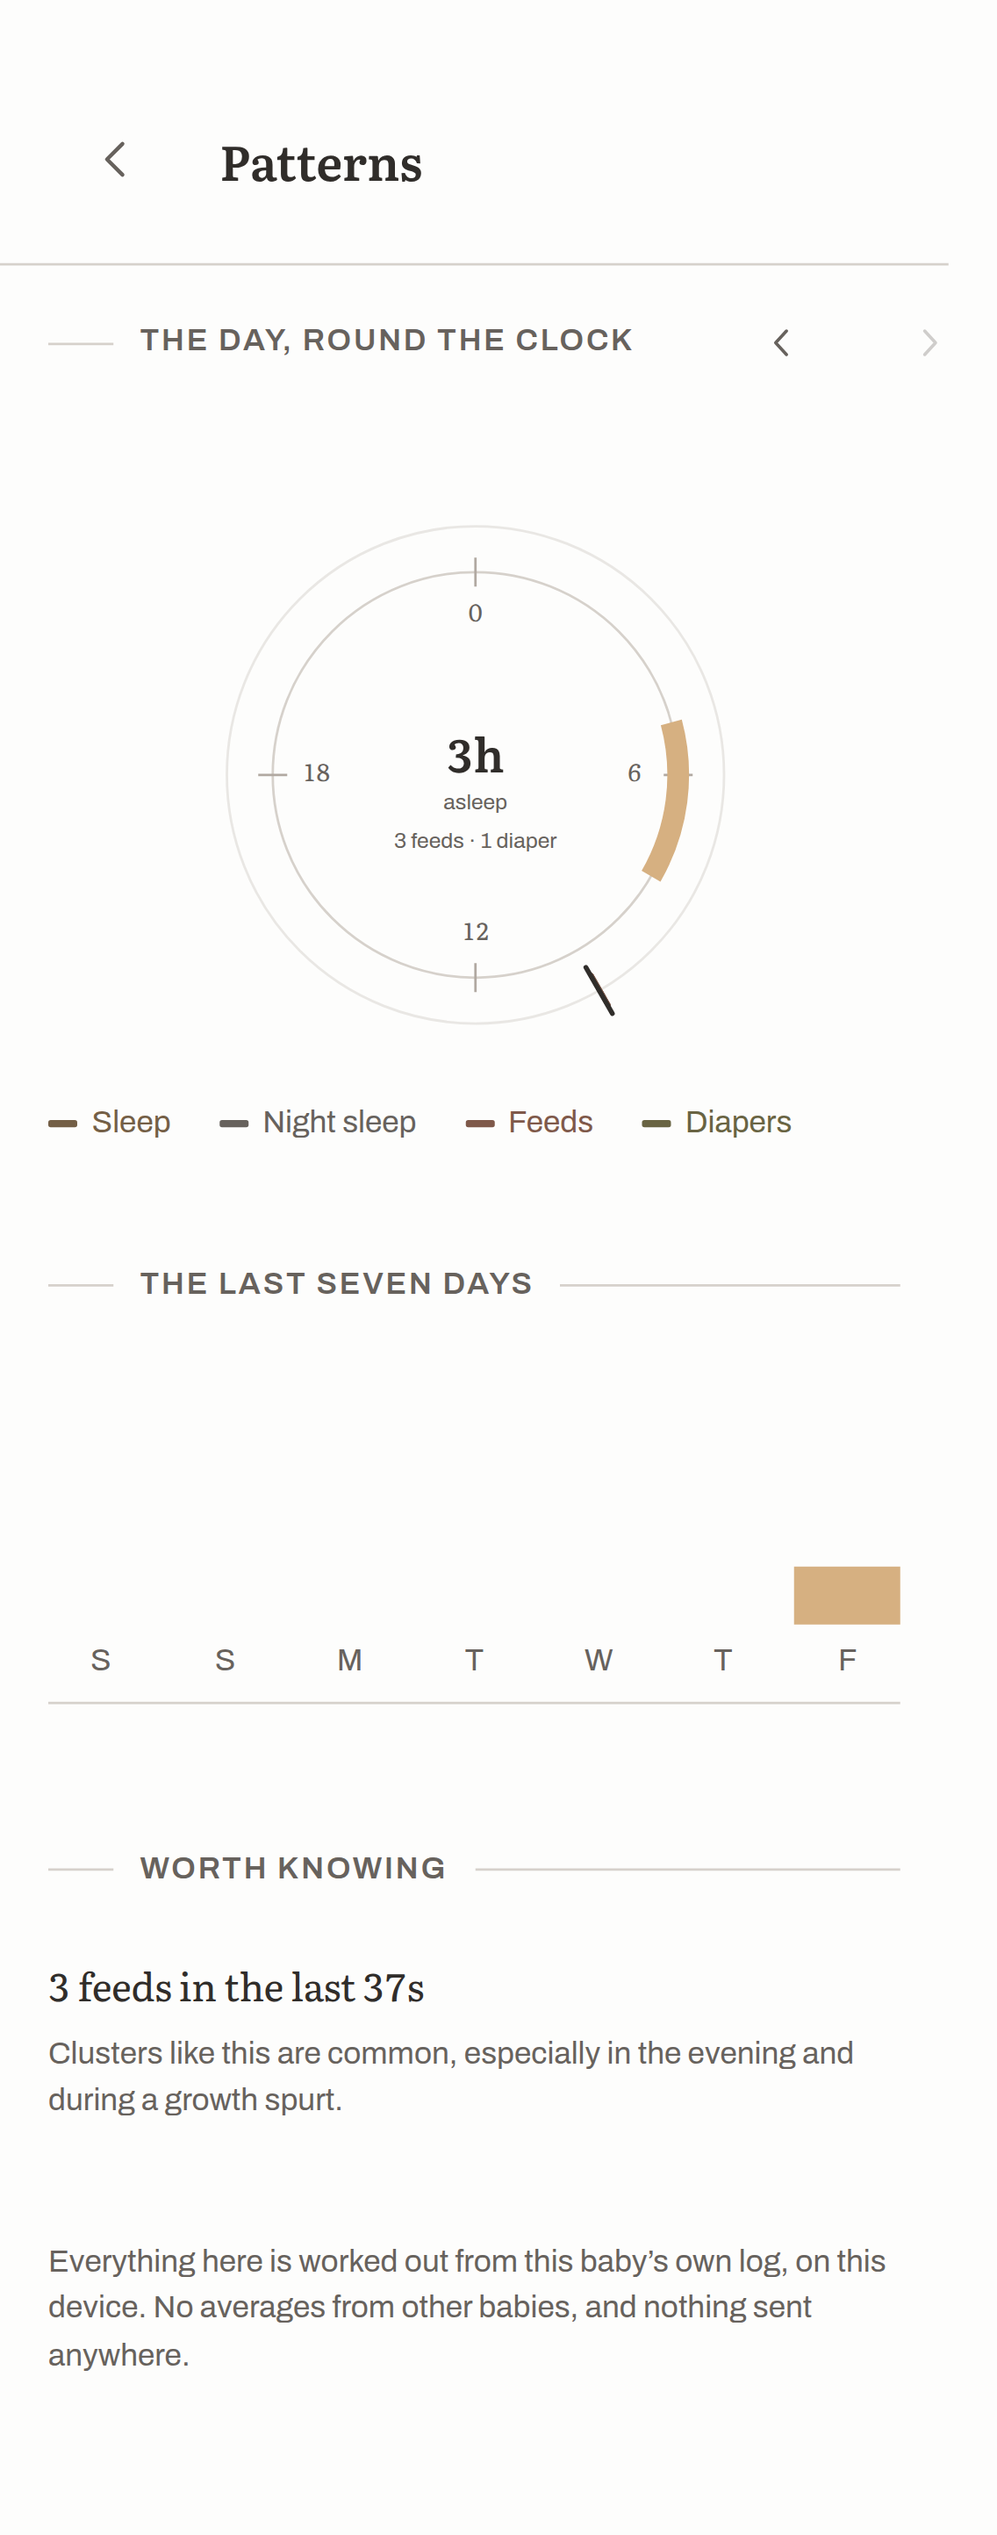
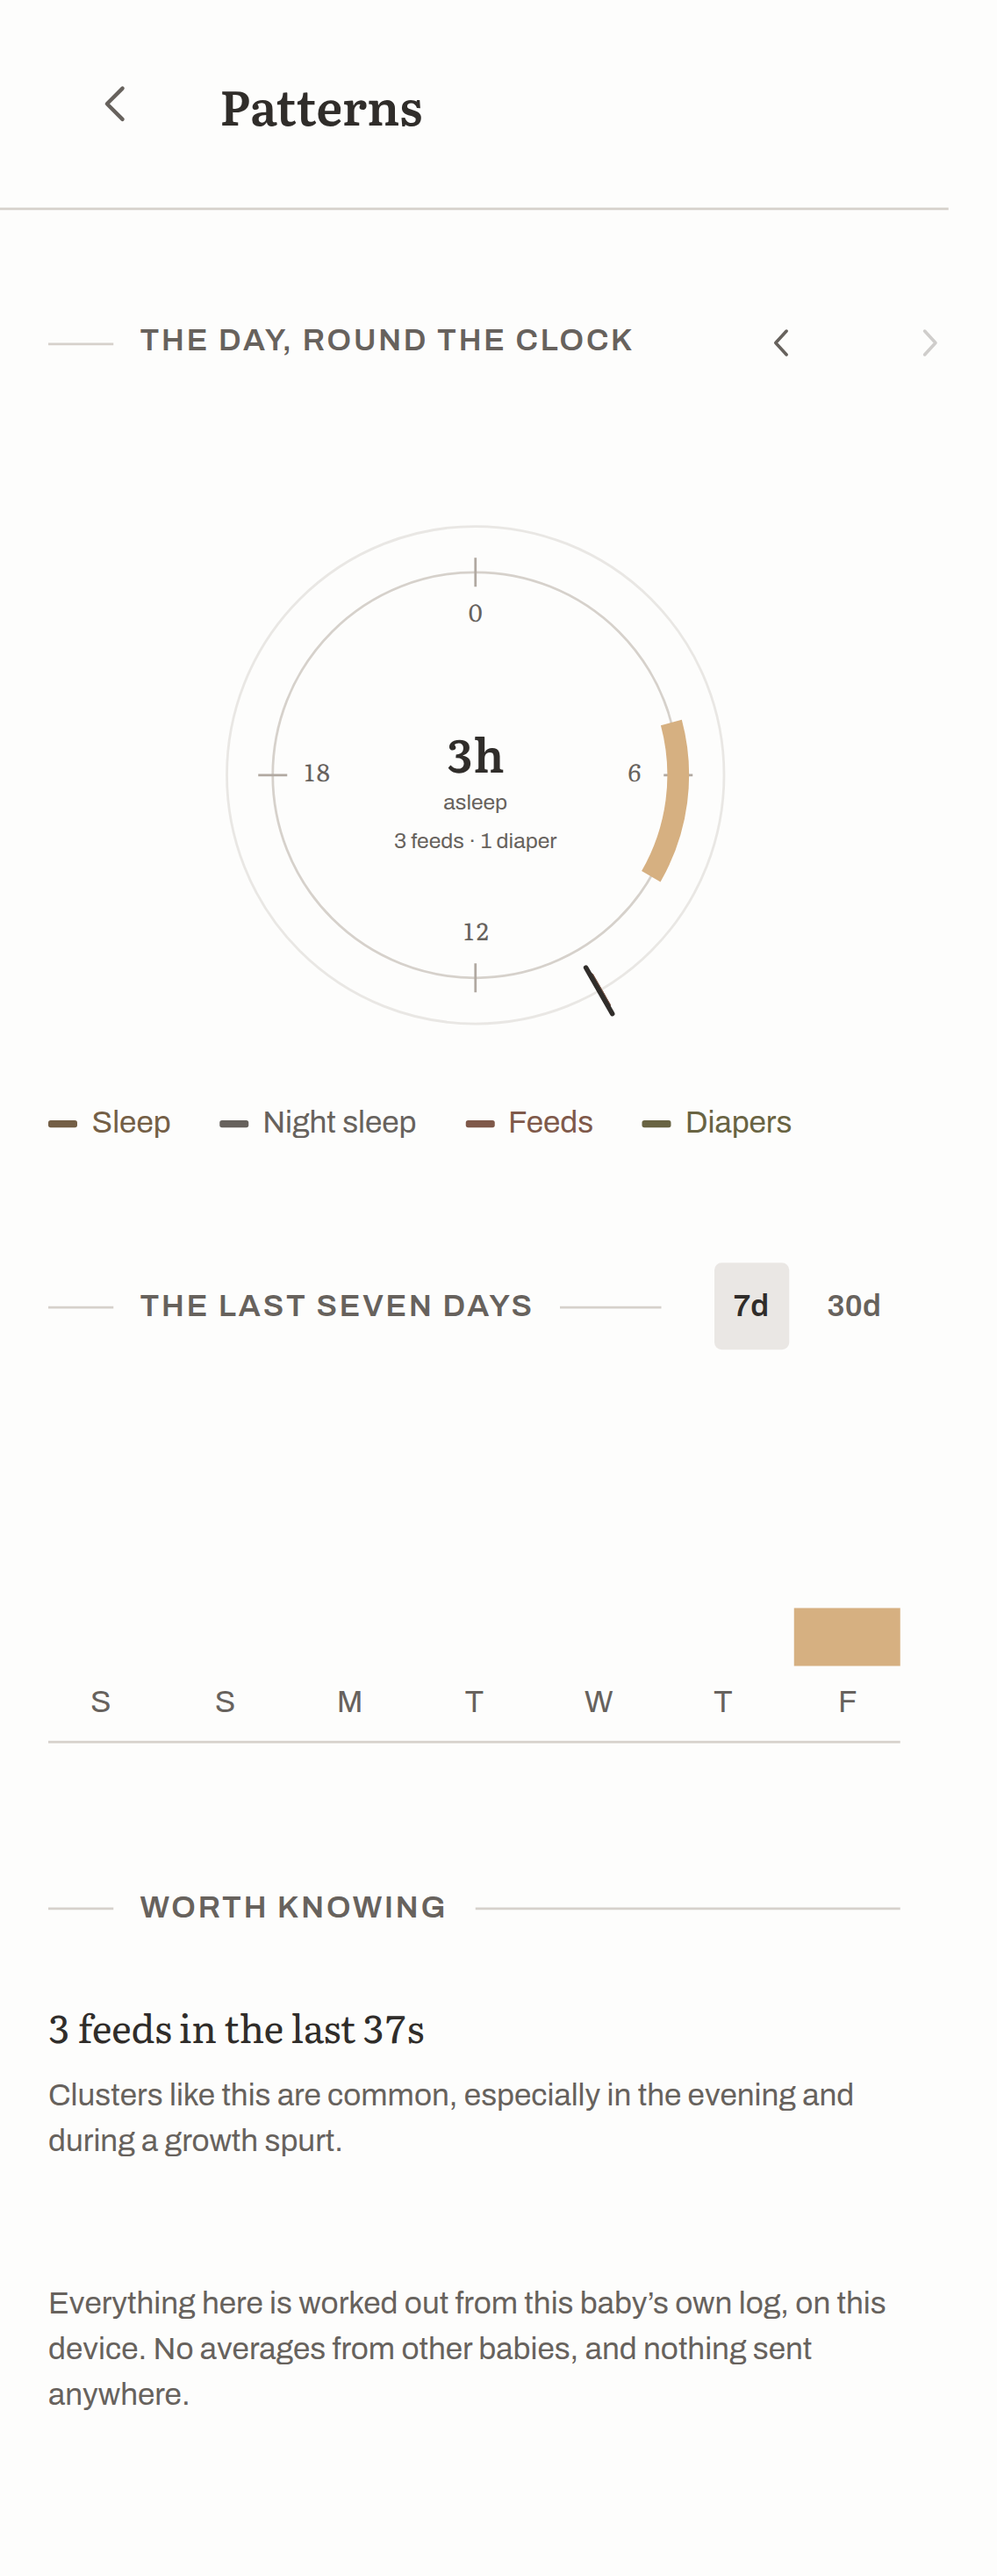
Add a thirty-day pattern chart, and say why the blocked items are blocked
The daily-sleep chart gains a thirty-day span, toggled from the section rule. A
week is too short to show a routine settling — or failing to; a month is where
that becomes visible. The weekday initials are dropped at that length because
thirty of them is a grey smear rather than an axis, and the chart's text
alternative now names the span so a screen-reader user hearing "daily sleep"
knows which window it covers.

The i18n drift test earned its keep here: it caught the Spanish label losing the
{days} placeholder, which would have silently dropped a number from the sentence
for Spanish readers only.

The rest of this commit is the roadmap telling the truth about what cannot ship
in this architecture, rather than leaving four items looking merely unstarted:

Voice logging is blocked. Chrome's Web Speech API sends audio to Google's servers
to be transcribed, which is precisely what this app promises not to do. It waits
for genuinely on-device recognition in a browser, or an offline model in the
Android shell — not a quiet exception to the one promise the project is built on.

The REST API, Home Assistant and MCP items all need a server, so they are
re-scoped as depending on the v0.3 sync server instead of sitting under v1.0 as
though they were nearly done.

The CDC milestone checklist is split from the keepsake milestone list and marked
as needing sourcing, under the same rule that governed the WHO growth tables:
[…]

diff --git a/src/ui/PatternsScreen.tsx b/src/ui/PatternsScreen.tsx
@@ -65,7 +65,10 @@ export function PatternsScreen({
     () => dayWheel(events, dayAnchor, now),
     [events, dayAnchor, now],
   );
-  const week = useMemo(() => dailyTotals(events, now), [events, now]);
+  // Seven days or thirty, from the same function. A month is where a routine
+  // settling — or failing to — becomes visible, and a week is too short to show it.
+  const [span, setSpan] = useState<7 | 30>(7);
+  const week = useMemo(() => dailyTotals(events, now, span), [events, now, span]);
   const trend = useMemo(() => nightSleepTrend(events, now), [events, now]);
   const cluster = useMemo(() => detectFeedCluster(events, now), [events, now]);
   const deviation = useMemo(() => detectDeviation(events, now), [events, now]);
@@ -179,7 +182,32 @@ export function PatternsScreen({
             </section>
 
             <section className="section">
-              <RuleLabel>{t.t("patterns.week")}</RuleLabel>
+              <RuleLabel
+                actions={
+                  <div
+                    className="span-toggle"
+                    role="group"
+                    aria-label={t.t("patterns.span")}
+                  >
+                    <button
+                      type="button"
+                      aria-pressed={span === 7}
+                      onClick={() => setSpan(7)}
+                    >
+                      {t.t("patterns.span7")}
+                    </button>
+                    <button
+                      type="button"
+                      aria-pressed={span === 30}
+                      onClick={() => setSpan(30)}
+                    >
+                      {t.t("patterns.span30")}
+                    </button>
+                  </div>
+                }
+              >
+                {span === 7 ? t.t("patterns.week") : t.t("patterns.month")}
+              </RuleLabel>
               {observedPeak === 0 ? (
                 // Seven empty columns is a chart of nothing. One sentence says the
                 // same thing and does not look like a rendering failure.
@@ -187,8 +215,12 @@ export function PatternsScreen({
               ) : (
                 <div
                   className="week-bars"
+                  data-span={span}
                   role="img"
+                  // Names the span: a screen-reader user hearing "daily sleep"
+                  // needs to know whether it covers a week or a month.
                   aria-label={t.t("patterns.weekLabel", {
+                    days: t.number(span),
                     low: formatDuration(
                       t,
                       Math.min(...week.map((day) => day.sleepMs)),
@@ -212,11 +244,15 @@ export function PatternsScreen({
                           style={{ height: `${(day.nightMs / scale) * 100}%` }}
                         />
                       </div>
-                      <span className="week-bar-label">
-                        {new Intl.DateTimeFormat(t.locale, {
-                          weekday: "narrow",
-                        }).format(new Date(day.dayStart))}
-                      </span>
+                      {/* Dropped at thirty days: thirty weekday initials is a grey
+                          smear rather than an axis. */}
+                      {span === 7 && (
+                        <span className="week-bar-label">
+                          {new Intl.DateTimeFormat(t.locale, {
+                            weekday: "narrow",
+                          }).format(new Date(day.dayStart))}
+                        </span>
+                      )}
                     </div>
                   ))}
                 </div>

diff --git a/src/styles/app.css b/src/styles/app.css
@@ -1396,6 +1396,35 @@
   align-items: center;
 }
 
+/* Thirty bars need a hairline gap or they merge into one block. */
+.week-bars[data-span='30'] {
+  gap: 1px;
+}
+
+/*
+ * A toggle in the rule, not a second segmented control: this is a change of view
+ * rather than a choice being recorded, and it sits where the label already is.
+ */
+.span-toggle {
+  display: flex;
+  gap: var(--space-3);
+}
+
+.span-toggle button {
+  min-height: 2.25rem;
+  padding: 0 var(--space-3);
+  font-size: var(--text--1);
+  font-variant-numeric: tabular-nums;
+  color: var(--text-secondary);
+  border-radius: var(--radius);
+}
+
+.span-toggle button[aria-pressed='true'] {
+  color: var(--text);
+  font-weight: 600;
+  background: var(--surface-active);
+}
+
 /*
  * Bottom-anchored, and no track fill: an empty day is an empty column, which is
  * the truth about it. A filled grey track would draw a bar where nothing was

diff --git a/src/i18n/messages/es.ts b/src/i18n/messages/es.ts
@@ -191,7 +191,12 @@ export const es: Messages = {
   'patterns.legend.feed': 'Tomas',
   'patterns.legend.diaper': 'Pañales',
   'patterns.week': 'Los últimos siete días',
-  'patterns.weekLabel': 'Sueño diario de los últimos siete días, de {low} a {high} al día.',
+  'patterns.month': 'Los últimos treinta días',
+  'patterns.span': 'Hasta cuándo atrás',
+  'patterns.span7': '7 d',
+  'patterns.span30': '30 d',
+  'patterns.weekLabel':
+    'Sueño diario de los últimos {days} días, de {low} a {high} al día.',
   'patterns.noData': 'Aún no hay suficiente registrado para ver un patrón.',
   'patterns.noDataHint':
     'Basta con unos días de sueño. Todo lo de aquí se calcula con tu propio registro, en este dispositivo.',

diff --git a/src/i18n/messages/en.ts b/src/i18n/messages/en.ts
@@ -201,8 +201,12 @@ export const en = {
   'patterns.legend.feed': 'Feeds',
   'patterns.legend.diaper': 'Diapers',
   'patterns.week': 'The last seven days',
+  'patterns.month': 'The last thirty days',
+  'patterns.span': 'How far back',
+  'patterns.span7': '7d',
+  'patterns.span30': '30d',
   'patterns.weekLabel':
-    'Daily sleep for the last seven days, {low} to {high} per day.',
+    'Daily sleep over the last {days} days, {low} to {high} per day.',
   'patterns.noData': 'Not enough logged yet to see a pattern.',
   'patterns.noDataHint':
     'A few days of sleep is all it takes. Everything here is worked out from your own log, on this device.',

diff --git a/docs/ROADMAP.md b/docs/ROADMAP.md
@@ -88,7 +88,8 @@ carries a UUID and `updatedAt`, so sync can be added without rewriting the app.
       run named on screen once it is one
 - [x] 24-hour circular "day wheel" visualisation
 - [x] Weekly pattern chart, with night and naps stacked
-- [ ] Monthly pattern charts
+- [x] Monthly pattern charts — the same daily-sleep chart over thirty days, which
+      is where a routine settling or failing to settle becomes visible
 - [x] Trends: "sleeping 40min longer at night than last week"
 - [x] Gentle deviation nudges — informational, never diagnostic
 
@@ -109,13 +110,24 @@ carries a UUID and `updatedAt`, so sync can be added without rewriting the app.
 - [x] Activities: tummy time with a daily goal you set yourself, bath, walks,
       playtime, reading
 - [ ] User-defined activity types
-- [ ] Milestones: CDC checklist by age, a photo per milestone
+- [ ] Milestones: a keepsake list (first smile, first tooth, first steps) with a
+      photo each
+- [ ] The CDC "Learn the Signs" checklist by age — **needs sourcing.** Developmental
+      milestones shown to a worried parent have to be transcribed exactly or not at
+      all, same rule as the WHO growth tables
 - [ ] Photo journal / timeline
-- [ ] Voice logging: "log 120ml bottle", on-device speech
-- [ ] Public REST API and webhooks
-- [ ] Home Assistant integration
-- [ ] MCP server so AI assistants can log and query
-- [ ] PDF export for paediatrician visits
+- [ ] Voice logging: "log 120ml bottle". **Blocked, and worth saying why.** The
+      Web Speech API in Chrome sends audio to Google's servers to be transcribed,
+      which is precisely what this app promises not to do. It arrives when browsers
+      expose genuinely on-device recognition, or in the Android shell with an
+      offline model — not before, and not quietly
+- [ ] Public REST API and webhooks — needs the v0.3 sync server first
+- [ ] Home Assistant integration — needs the v0.3 sync server first
+- [ ] MCP server so AI assistants can log and query — needs the v0.3 sync server first
+- [x] PDF export for paediatrician visits — via the print path on the handover and
+      symptom screens, which "save as PDF" uses. A second PDF writer bundled into
+      the app would be a large dependency doing what the operating system already
+      does
 
 ## v1.x — Platform depth
 

diff --git a/CHANGELOG.md b/CHANGELOG.md
@@ -6,6 +6,32 @@ versions may change behaviour.
 
 ## Unreleased
 
+### Added
+
+- **A thirty-day view on the daily-sleep chart**, toggled from the section rule. A
+  week is too short to show a routine settling — or failing to; a month is where that
+  becomes visible. The weekday initials are dropped at that length, because thirty of
+  them is a grey smear rather than an axis.
+- The chart's text alternative now names the span it covers, so a screen-reader user
+  hearing "daily sleep" knows whether it is a week or a month.
+- **PDF export** is marked shipped: the print path on the handover and symptom
+  screens is what "save as PDF" uses. Bundling a PDF writer would be a large
+  dependency doing what the operating system already does.
+
+### Changed — the roadmap says why the blocked things are blocked
+
+- **Voice logging is blocked, not merely unstarted.** Chrome's Web Speech API sends
+  audio to Google's servers to be transcribed, which is exactly what this app
+  promises not to do. It waits for genuinely on-device recognition in a browser, or
+  an offline model in the Android shell.
+- The REST API, Home Assistant and MCP items are re-scoped as depending on the v0.3
+  sync server, because every one of them needs a server and this app does not have
+  one.
+- The CDC milestone checklist is split out as needing sourcing, under the same rule
+  that governed the WHO growth tables: developmental milestones shown to a worried
+  parent get transcribed exactly or not at all.
+
+
 ### Added — activities and potty training
 
 - **Tummy time, counted against a goal you set yourself.** The screen says the
